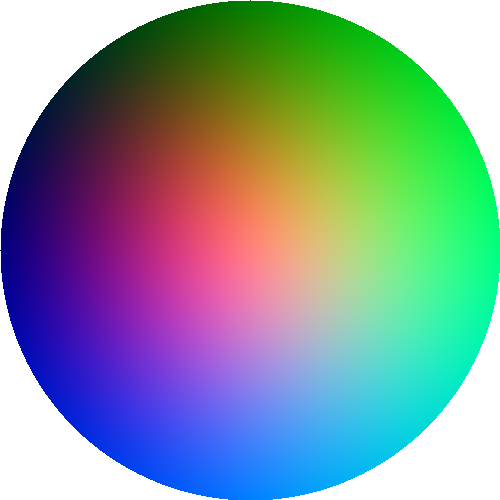
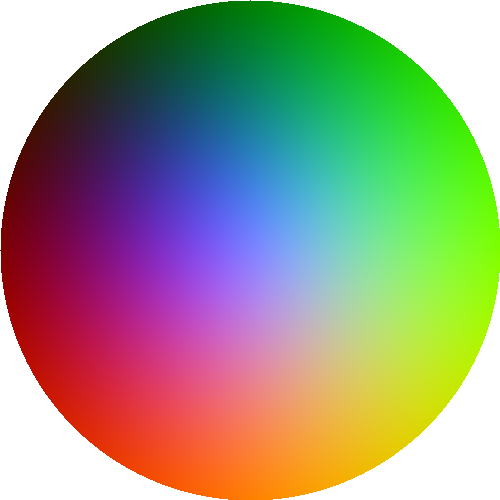
RGB=xyz

diff --git a/src/StereographicProjection/color.py b/src/StereographicProjection/color.py
@@ -16,8 +16,8 @@ for i in range(width):
         y = -1.0 + j * steps_y
         if ((x * x + y * y) <= (1.0)):
             base = x * x + y * y + 1
-            img[i, j, 0] = int(((1.0 + (2*x)/(base)) / 2.0) * 255)
+            img[i, j, 0] = int(max((1 - x*x - y*y)/(base), 0) * 255)
+            img[i, j, 2] = int(((1.0 + (2*x)/(base)) / 2.0) * 255)
             img[i, j, 1] = int(((1.0 + (2*y)/(base)) / 2.0) * 255)
-            img[i, j, 2] = int(max((1 - x*x - y*y)/(base), 0) * 255)
 
 cv2.imwrite("./images/color.png", img)
